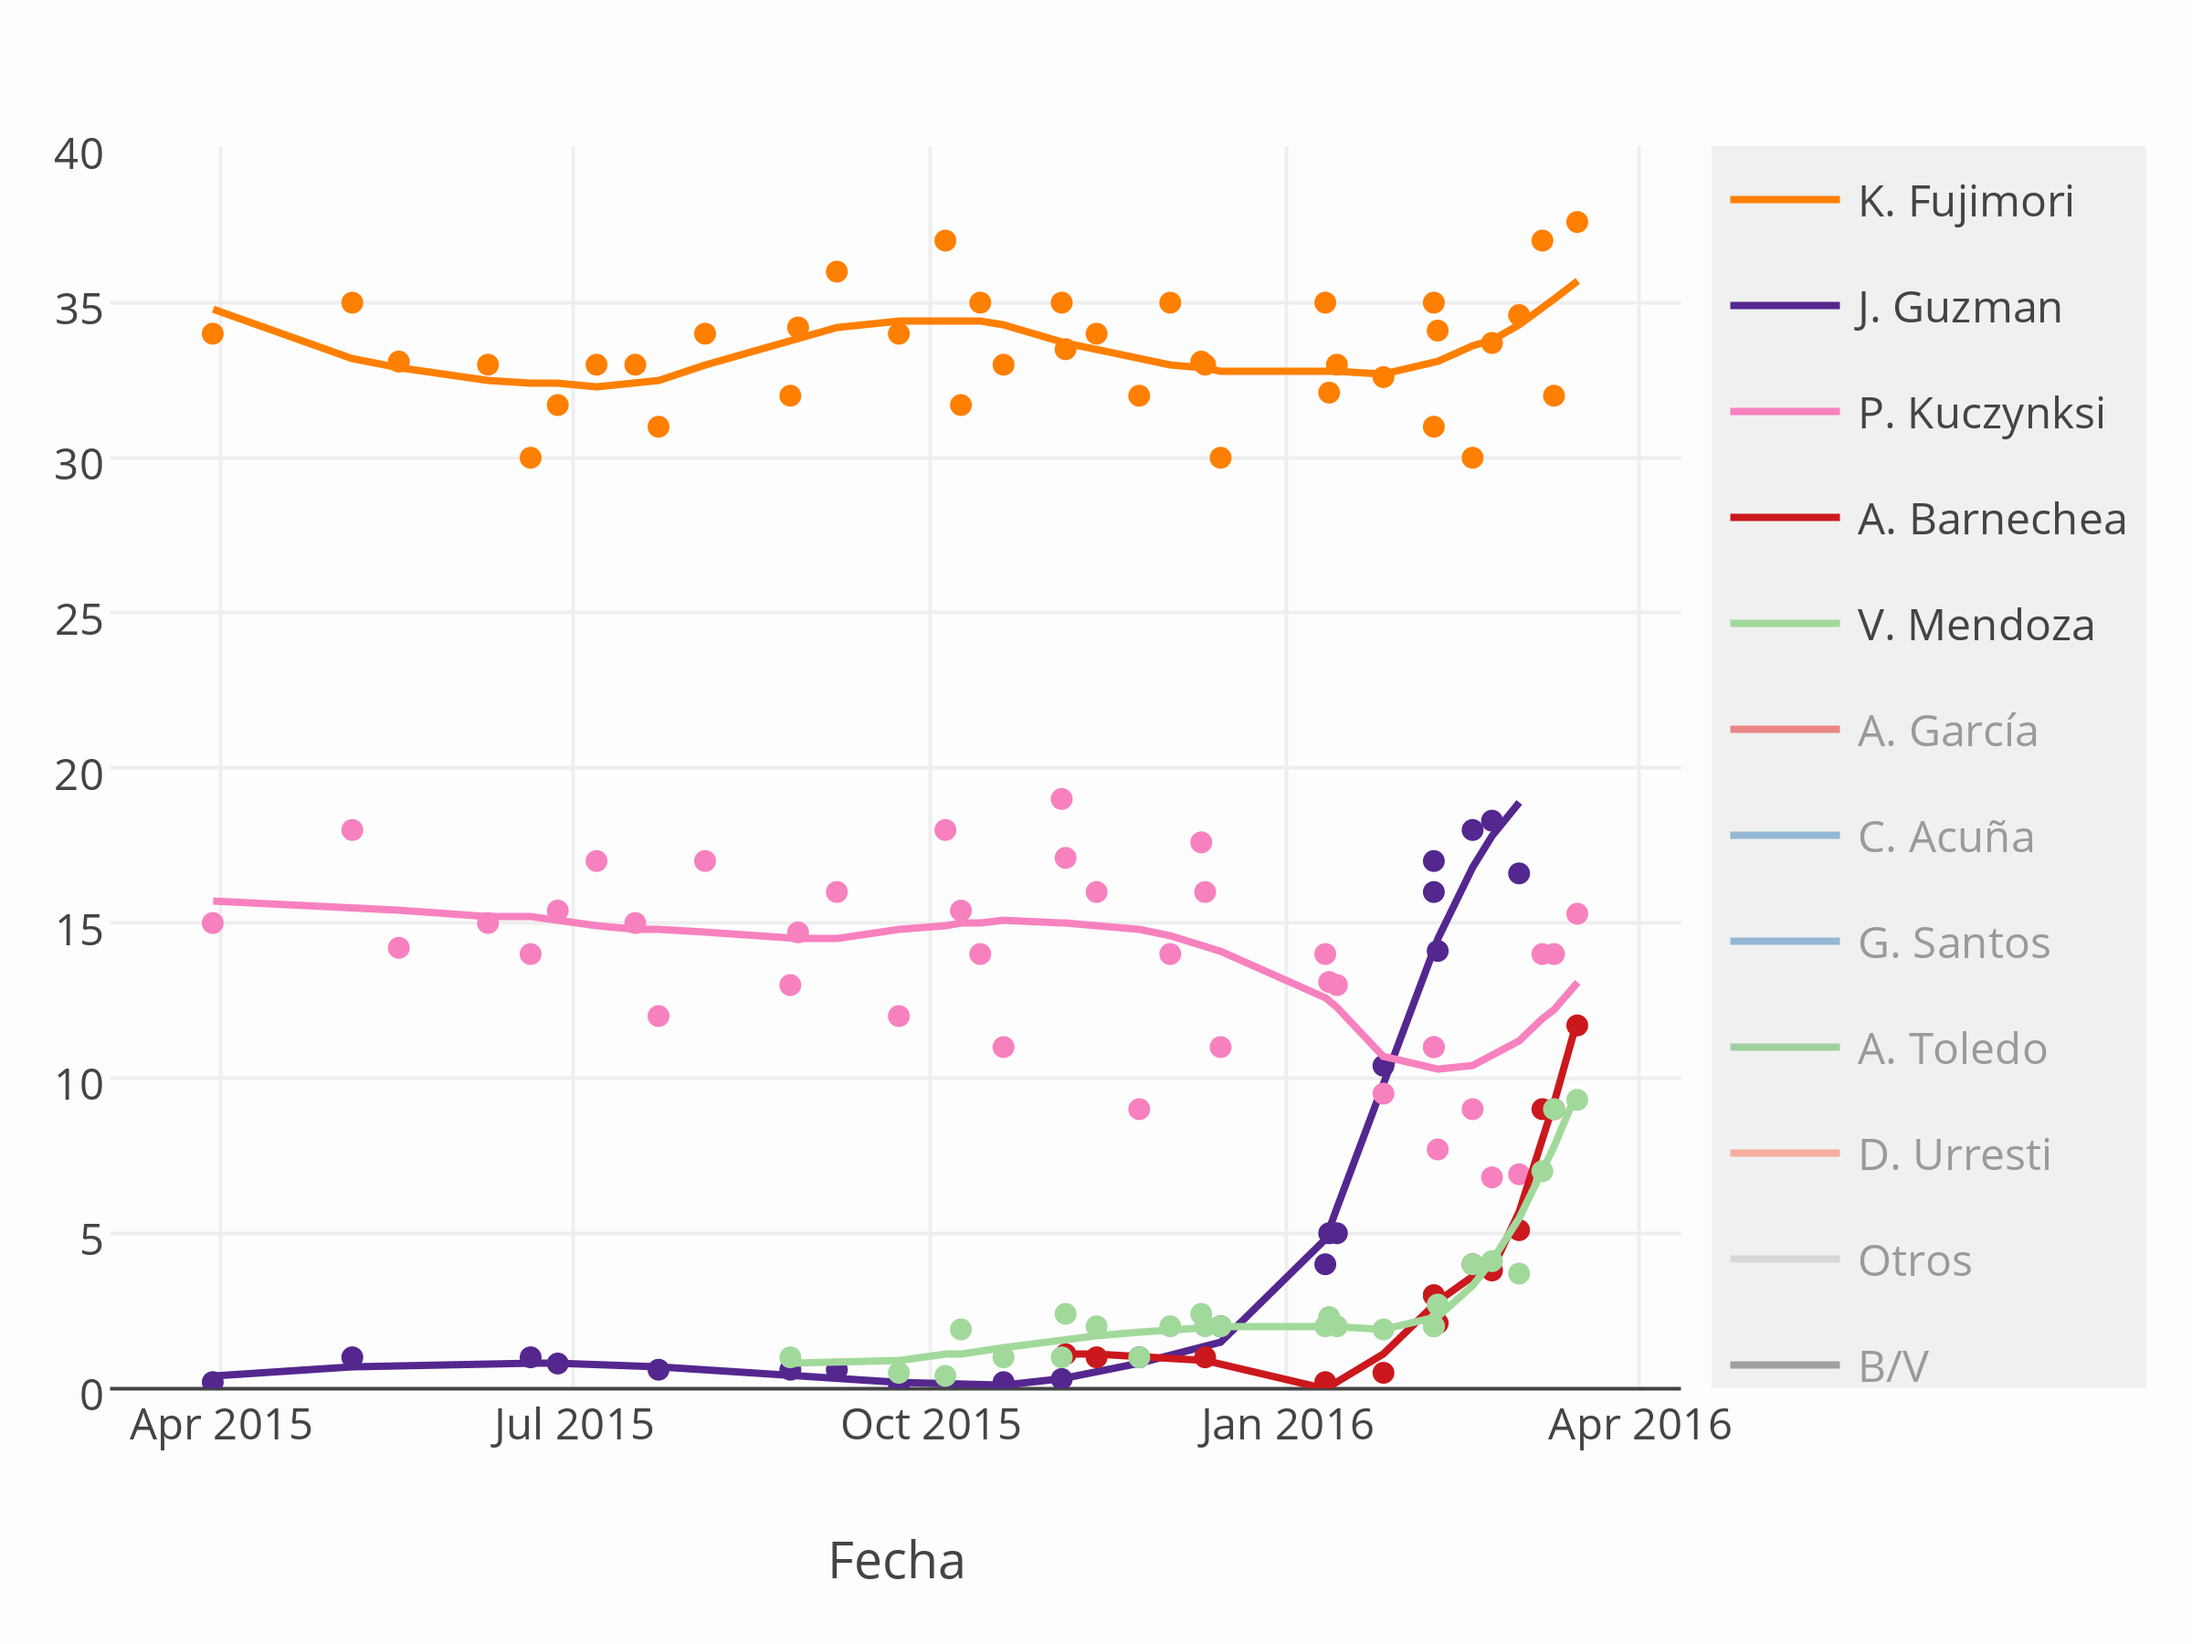
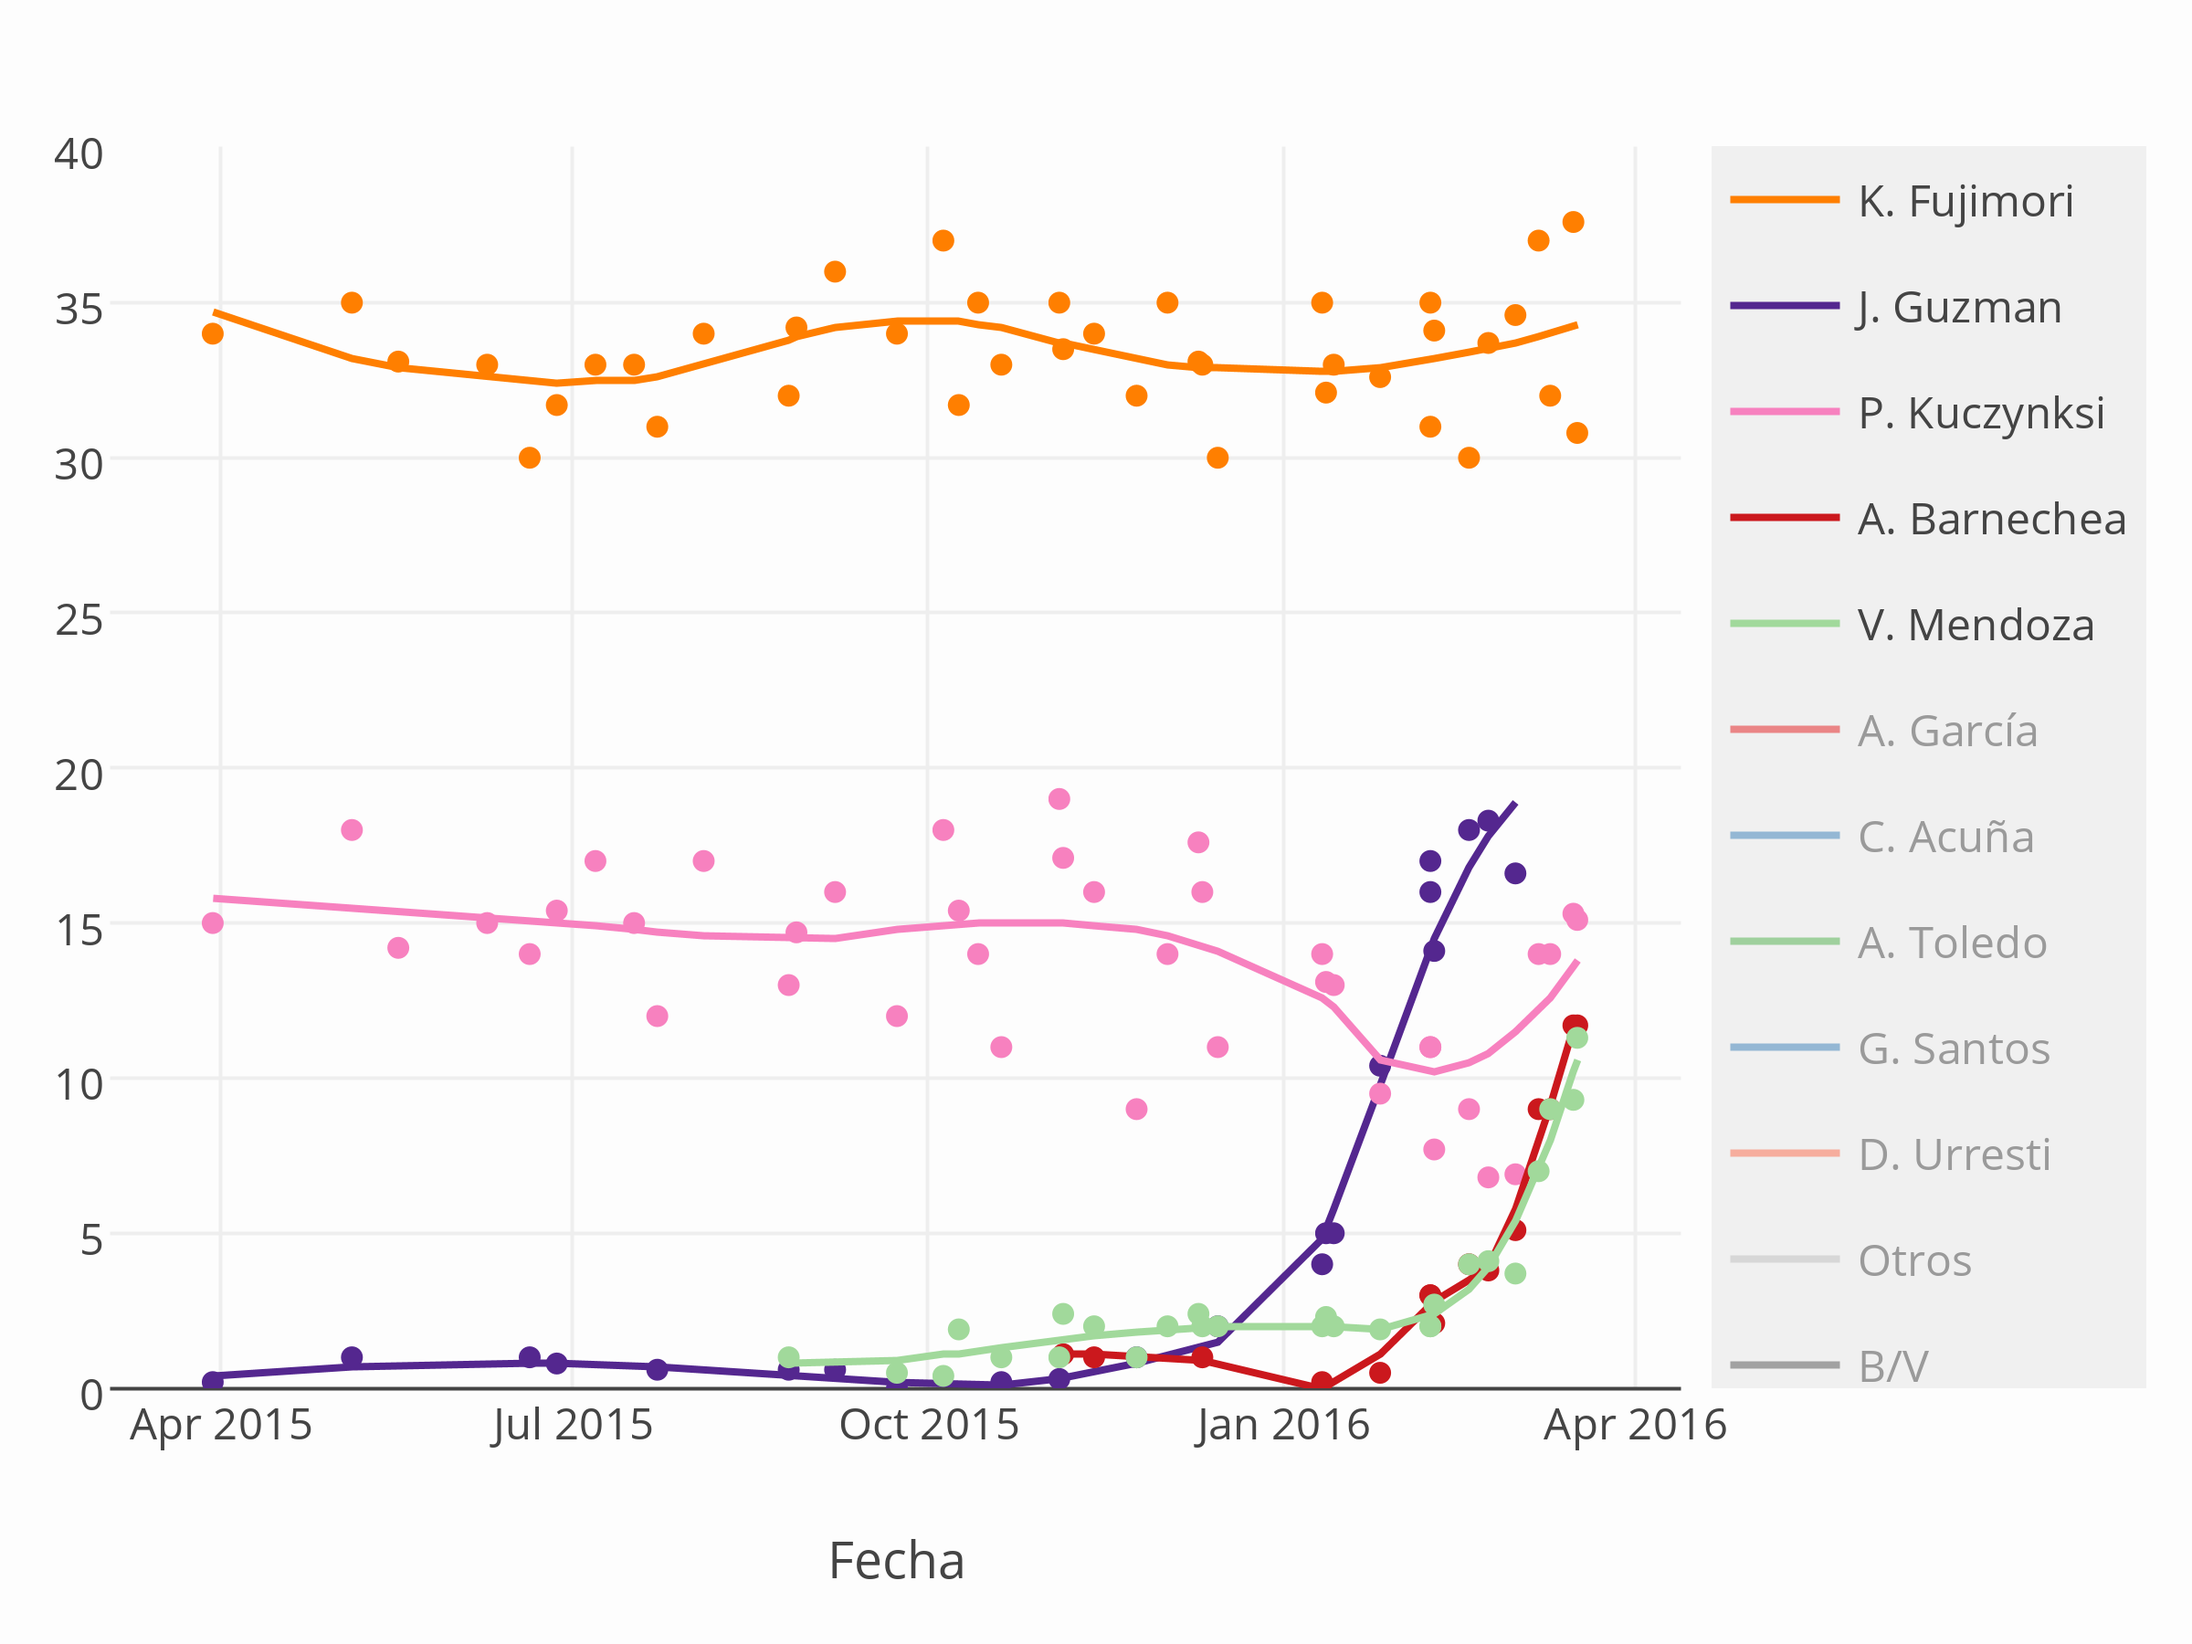
graficoActualizado

diff --git a/_posts/2016-03-20-Elecciones-presidenciales-2016.md b/_posts/2016-03-20-Elecciones-presidenciales-2016.md
@@ -24,7 +24,7 @@ breadcrumb: true
 
 
 
-El siguiente gráfico combina las encuestas de intención de voto. Actualizado el 19-03-2016.
+El siguiente gráfico combina las encuestas de intención de voto. Actualizado el 20-03-2016.
 
 
 
@@ -43,7 +43,7 @@ $('.myIframe').css('height', $(window).height()+'px');
 
 ## Resumen
 
-Estimado de »Resultados.pe« al cierre del trabajo de campo de la encuesta más reciente: 16-03-2016. 
+Estimado de »Resultados.pe« al cierre del trabajo de campo de la encuesta más reciente: 17-03-2016. 
 
 <iframe src="https://plot.ly/~AlejandroKantor/380.embed?link=False"  style="width: 100%" frameBorder="0" height="350" scrolling="no" seamless="seamless" 
 class="myIframe">
